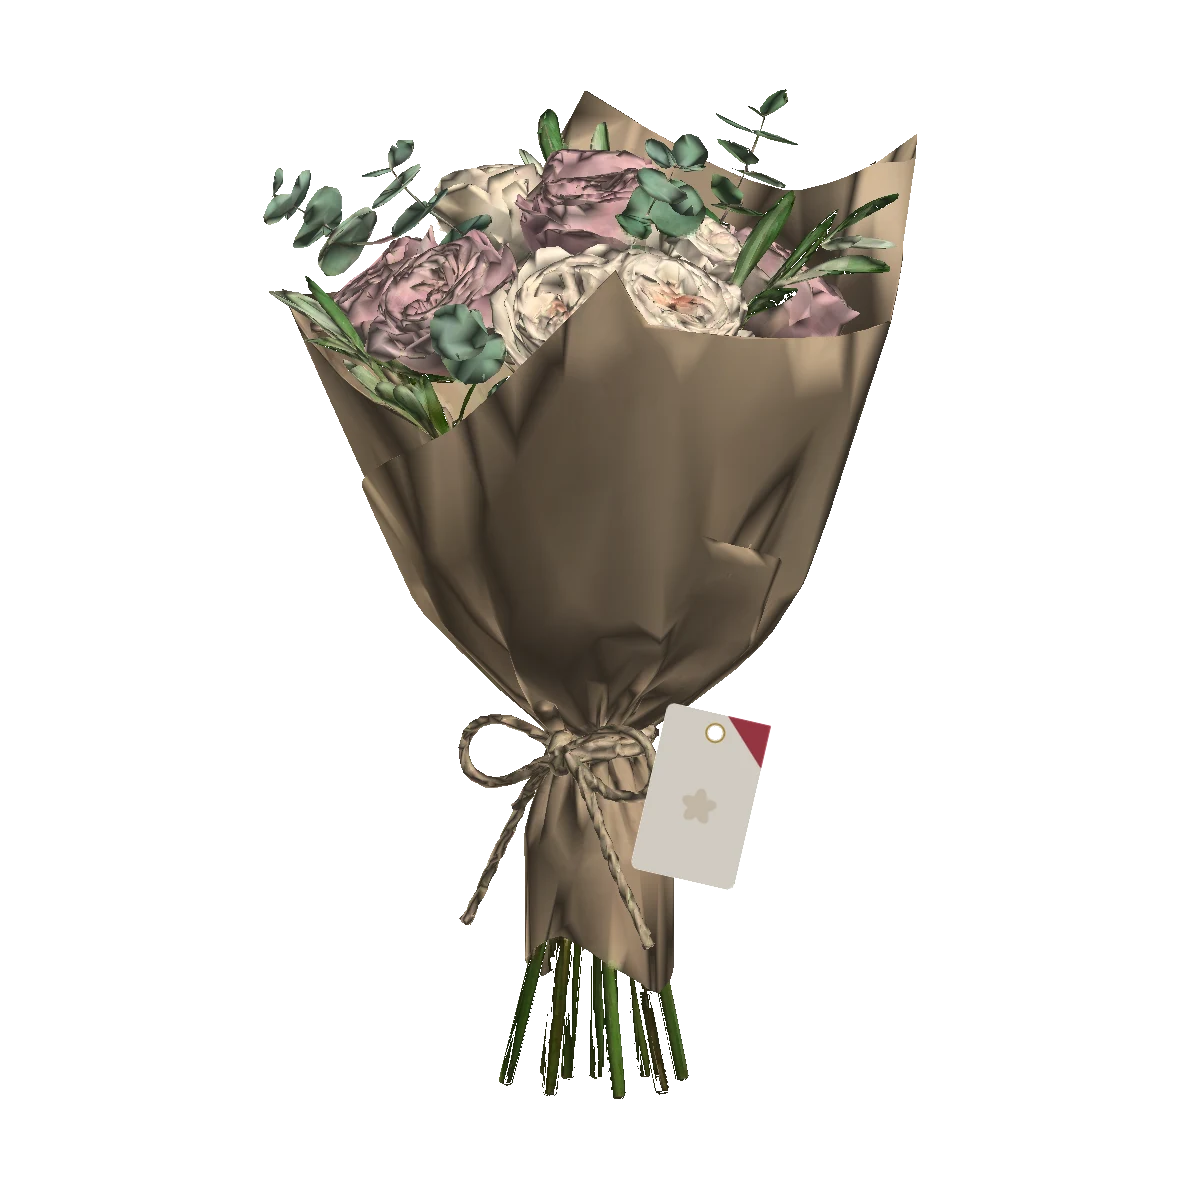
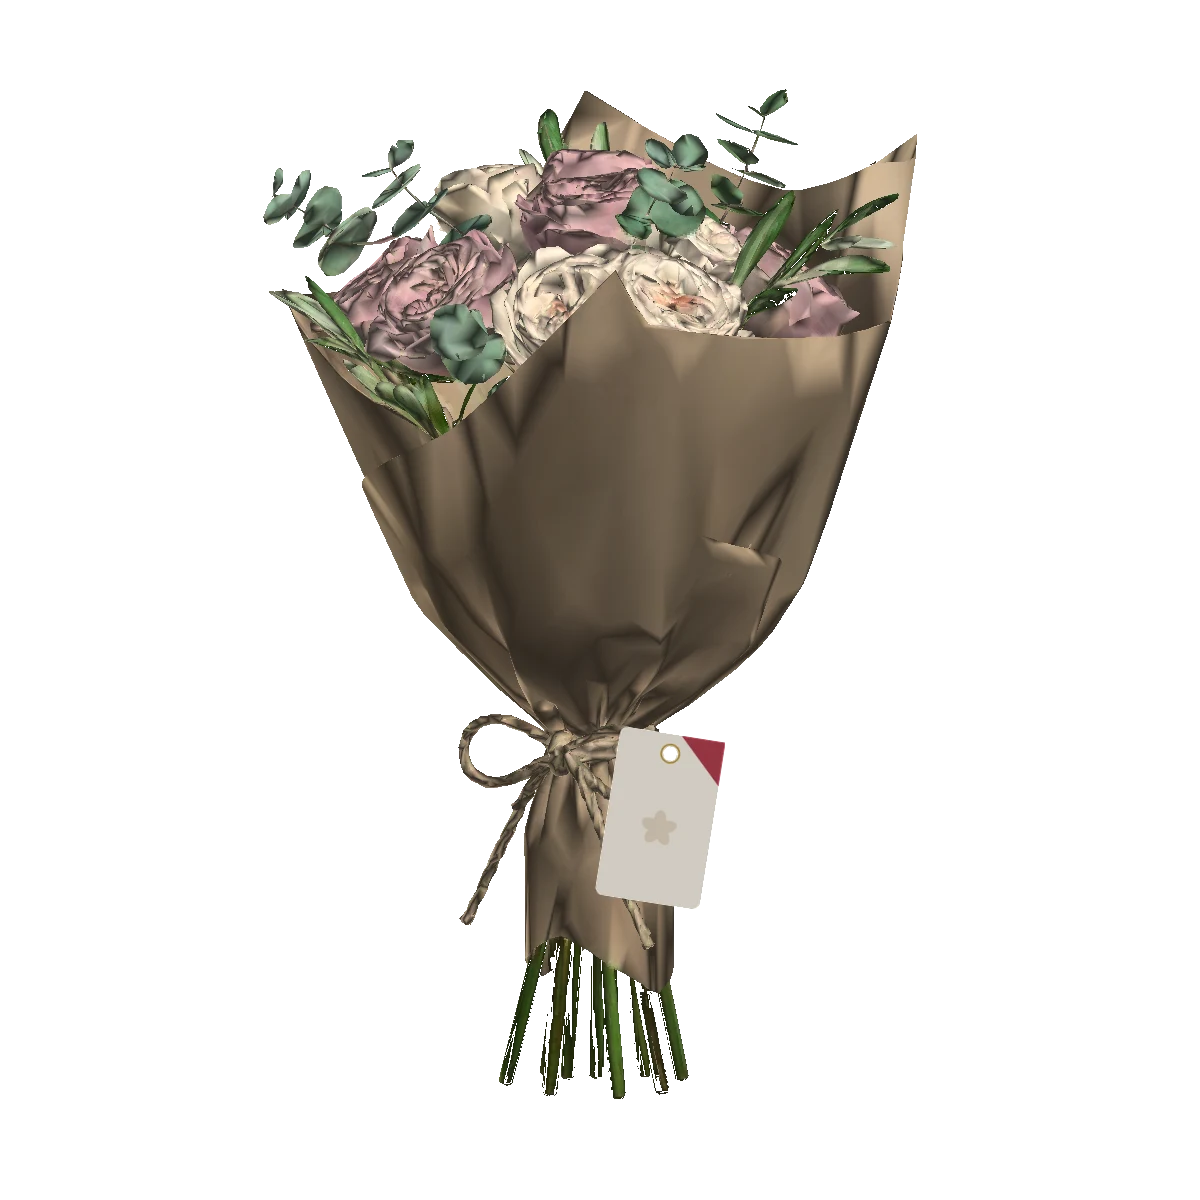
Hang the tag on the bouquet, and let the tag section be a photograph
The tag floated beside the bouquet rather than on it, and the three numbers
that placed it were the one part of that scene chosen by eye. Measured off the
mesh: across the band the tag covers, the wrap's front surface sits at z 0.128
and it had been put at 0.34 — a fifth of the bouquet's own width out in front.
x 0.24 was past the wrap's edge at that height too, so it hung off the side as
well as the front. It is on the paper now, a hair proud of it, low enough that
the cord loop lands at the tie instead of the card.

The tag section drops its canvas for a still of the chosen design. Two
interactive objects on one page compete rather than add, the hero already
turns, and this one only has to be looked at — a rendered still shows the
deboss and the letterpress better than a real-time render of them does. That
removes `TagShowcase` and `TagCanvas` entirely; `BrandTag` stays, because the
hero is where it earns its place.

Changed region(s): [[0.4933, 0.5858, 0.6475, 0.7708]]

diff --git a/components/three/BouquetCanvas.tsx b/components/three/BouquetCanvas.tsx
@@ -25,11 +25,23 @@ export type BouquetCanvasProps = {
   onReady?: () => void;
 };
 
-/* Measured from the model, not guessed: it stands 1.896 units tall, its tie
-   sits about a third up from the bottom, and a real tag is roughly a sixth of
-   a bouquet's height. */
+/**
+ * Where the tag hangs — measured off the mesh, because the first attempt at
+ * these three numbers left it floating in mid-air beside the bouquet.
+ *
+ * The model stands 1.896 units tall and its tie sits about a third up from the
+ * bottom, at y −0.30. What the guess got wrong was depth: the wrap's front
+ * surface across the band the tag covers is at **z 0.128**, and the tag was put
+ * at 0.34 — a fifth of the bouquet's own width out in front of it. x 0.24 was
+ * past the wrap's edge at that height too, so it hung off the side as well as
+ * off the front.
+ *
+ * So: on the paper, a hair proud of it, and low enough that the cord loop lands
+ * at the tie rather than the card itself. A real 85mm tag against a 500mm
+ * bouquet is roughly a sixth of its height, which is the scale.
+ */
 const TAG_SCALE = 0.32;
-const TIE = { x: 0.24, y: -0.3, z: 0.34 };
+const TIE = { x: 0.1, y: -0.45, z: 0.148 };
 
 function Scene({ onReady }: { onReady?: () => void }) {
   const { scene } = useGLTF('/3d/bouquet.glb');
@@ -42,10 +54,9 @@ function Scene({ onReady }: { onReady?: () => void }) {
     <group position={[0, -0.15, 0]}>
       <primitive object={scene} />
 
-      {/* Hung at the wrap, turned out towards the reader and tilted the way
-          something on a string hangs — square to the camera would read as
-          pasted on. */}
-      <group position={[TIE.x, TIE.y, TIE.z]} rotation={[0.12, 0.42, -0.14]}>
+      {/* Turned out towards the reader and tilted the way something on a string
+          hangs — square to the camera would read as pasted on. */}
+      <group position={[TIE.x, TIE.y, TIE.z]} rotation={[0.08, 0.3, -0.09]}>
         <BrandTag scale={TAG_SCALE} />
       </group>
     </group>

diff --git a/app/shops/page.tsx b/app/shops/page.tsx
@@ -1,4 +1,5 @@
 import type { Metadata } from 'next';
+import Image from 'next/image';
 import Link from 'next/link';
 import { Footer } from '@/components/site/Footer';
 import { Header } from '@/components/site/Header';
@@ -7,7 +8,6 @@ import { PhoneFrame } from '@/components/marketing/PhoneFrame';
 import { TemplateStage } from '@/components/marketing/TemplateStage';
 import { EarningsCalculator } from '@/components/shops/EarningsCalculator';
 import { BouquetShowcase } from '@/components/three/BouquetShowcase';
-import { TagShowcase } from '@/components/three/TagShowcase';
 import { ButtonLink } from '@/components/ui/Button';
 import { Reveal } from '@/components/ui/Reveal';
 import { copyFor } from '@/lib/card/copy';
@@ -154,9 +154,21 @@ export default async function ShopsPage() {
           <div className="mx-auto max-w-[62rem]">
             <SectionHeading eyebrow={t.tag.eyebrow} title={t.tag.title} lead={t.tag.lead} />
 
+            {/* A photograph, not a canvas. The tag turns in the hero already,
+                and a second interactive object on one page competes with the
+                first instead of adding to it — this one only has to be looked
+                at, and a still shows the deboss and the letterpress better than
+                a real-time render of them does. */}
             <Reveal preset="fade">
-              <div className="mt-10">
-                <TagShowcase strings={{ alt: t.tag.alt, hint: t.tag.hint }} />
+              <div className="mt-10 overflow-hidden rounded-[1.25rem] border border-line">
+                <Image
+                  src="/brand/tag-design.webp"
+                  alt={t.tag.alt}
+                  width={1024}
+                  height={1024}
+                  sizes="(max-width: 62rem) 100vw, 62rem"
+                  className="h-auto w-full"
+                />
               </div>
             </Reveal>
 

diff --git a/lib/i18n/dictionaries/ru.ts b/lib/i18n/dictionaries/ru.ts
@@ -274,7 +274,6 @@ export const ru: Dictionary = {
         eyebrow: 'Что вы привязываете',
         title: 'Вот эта бирка.',
         lead: 'Плотный картон, латунный люверс, джутовая нить. Единственная вещь, которую вы держите в руках: всё остальное живёт в телефоне покупателя.',
-        hint: 'Тяните, чтобы повернуть',
         alt: 'Печатная бирка Bir dunyo: картон, латунный люверс и джутовая нить',
         note: 'Она здесь пустая, потому что такой и приходит. Имя и код печатаются на неё под конкретный заказ — у каждой открытки код свой.',
       },

diff --git a/lib/i18n/dictionaries/uz.ts b/lib/i18n/dictionaries/uz.ts
@@ -272,7 +272,6 @@ export const uz: Dictionary = {
         eyebrow: 'Siz nimani bog‘laysiz',
         title: 'Mana shu yorliq.',
         lead: 'Qalin karton, guruch halqa, jut ip. Qo‘lingizda ushlaydigan yagona narsa: qolgani xaridorning telefonida yashaydi.',
-        hint: 'Aylantirish uchun torting',
         alt: 'Bir dunyo bosma yorlig‘i: karton, guruch halqa va jut ip',
         note: 'Bu yerda u bo‘sh, chunki shunday holda keladi. Ism va kod har bir buyurtma uchun alohida bosiladi — har bir otkritkaning o‘z kodi bor.',
       },

diff --git a/lib/i18n/dictionaries/en.ts b/lib/i18n/dictionaries/en.ts
@@ -268,7 +268,6 @@ export const en: Dictionary = {
         eyebrow: 'What you tie on',
         title: 'This tag.',
         lead: 'Thick card stock, a brass eyelet, jute string. The only part you hold: everything else lives on the customer’s phone.',
-        hint: 'Drag to turn it',
         alt: 'The printed Bir dunyo tag: card stock, a brass eyelet and jute string',
         note: 'It is blank here because that is how it arrives. The name and the code are printed on it for a particular order — every card has a code of its own.',
       },

diff --git a/lib/i18n/types.ts b/lib/i18n/types.ts
@@ -260,8 +260,6 @@ export type Dictionary = {
         eyebrow: string;
         title: string;
         lead: string;
-        /** Shown over the canvas once it is actually interactive. */
-        hint: string;
         /** Alt text for the rendered still, which is what most visitors see. */
         alt: string;
         /** Why the tag in view carries no name and no code. */
